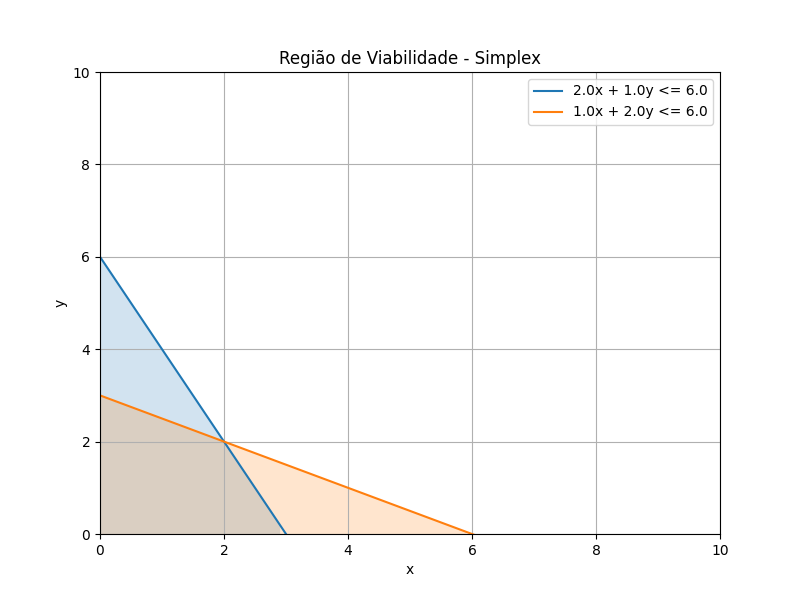
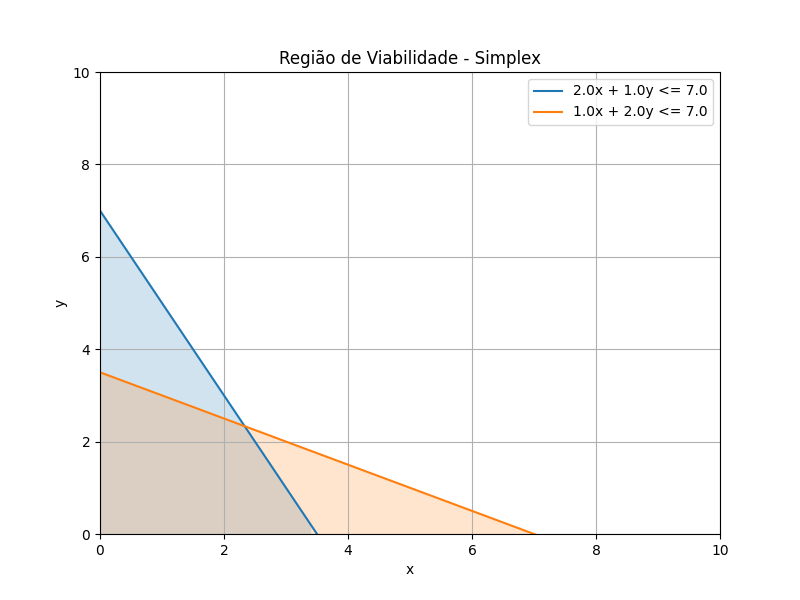
começando view da solução gráfica

Changed region(s): [[0.125, 0.36, 0.6562, 0.9], [0.8438, 0.15, 0.875, 0.21]]

diff --git a/resources/views/simplex/geometrica.blade.php b/resources/views/simplex/geometrica.blade.php
@@ -1,0 +1,112 @@
+<!DOCTYPE html>
+<html lang="pt-BR">
+
+<head>
+    <meta charset="UTF-8" />
+    <meta name="viewport" content="width=device-width, initial-scale=1" />
+    <title>Táuba</title>
+    <script src="https://kit.fontawesome.com/cc9f72a45c.js" crossorigin="anonymous"></script>
+    @vite(['resources/css/app.css', 'resources/js/app.js'])
+    <link href="https://fonts.googleapis.com/css2?family=Inter:wght@400;600;900&display=swap" rel="stylesheet" />
+    <link rel="stylesheet" href="https://cdnjs.cloudflare.com/ajax/libs/toastr.js/latest/toastr.min.css">
+    <style>
+        body {
+            font-family: 'Inter', sans-serif;
+        }
+
+        .cell-red {
+            background-color: #fee2e2;
+            color: #b91c1c;
+            font-weight: 600;
+        }
+
+        .cell-green {
+            background-color: #dcfce7;
+            color: #15803d;
+            font-weight: 600;
+        }
+
+        .cell-pivot {
+            background-color: #fef9c3;
+            border: 2px solid #facc15;
+        }
+    </style>
+</head>
+
+<body class="bg-gradient-to-br from-[#C69C6D] via-[#ffe4c6] to-[#B88960] min-h-screen py-12 px-6">
+    <!-- Botão Voltar -->
+
+
+    <div class="absolute top-6 left-6 flex flex-col gap-2">
+        <a href="{{ route('simplex.index') }}" class="duration-300 hover:scale-110">
+            <i class="fa-solid fa-house bg-[linear-gradient(224.36deg,_#995026_27.29%,_#5C3A21_62.58%)] bg-clip-text text-transparent text-2xl"></i>
+        </a>
+        <a href="{{ route('simplex.montar') }}" class="duration-300 hover:scale-110">
+            <i class="fa-solid fa-circle-left bg-[linear-gradient(224.36deg,_#995026_27.29%,_#5C3A21_62.58%)] bg-clip-text text-transparent text-2xl"></i>
+        </a>
+    </div>
+
+    <div class="mx-auto space-y-16 max-w-7xl">
+
+        {{-- Cabeçalho --}}
+        <header class="text-center">
+            <h1 class="mb-2 text-5xl font-extrabold tracking-tight text-[#5C3A21]">Resultado da Solução Geométrica</h1>
+            <p class="mb-12 text-lg text-amber-950 sm:text-xl">Abaixo está o gráfico</p>
+        </header>
+
+        {{-- Imagem do Gráfico --}}
+        <div class="flex justify-center overflow-hidden bg-white border border-orange-100 shadow-lg rounded-2xl">
+            <img src="{{asset('graficos/' . $nome)}}" alt="Grafico do Problema">
+        </div>
+
+        {{-- Resultado Final --}}
+        <div
+            class="max-w-2xl p-8 mx-auto mt-16 text-center bg-amber-50 border-l-8 border-amber-800 shadow-xl rounded-2xl">
+            <div class="flex items-center justify-center gap-3 mb-4 text-4xl font-extrabold text-amber-800">
+                Solução ótima encontrada
+            </div>
+            <p class="mt-2 text-3xl font-bold text-amber-900">
+                Z = <span class="text-amber-800"></span>
+            </p>
+            <p class="mt-4 text-xl text-amber-900">
+                <span class="font-semibold text-amber-800"></span>&nbsp;&nbsp;
+            </p>
+        </div>
+
+        {{-- Botão para salvar um problema no filesystem. --}}
+        <div class="flex justify-center">
+            <a onclick="toastr.success('Sucesso: problema baixado!')" href="{{ route('simplex.download') }}"
+                class="px-6 py-3 text-lg font-semibold text-[#5C3A21] bg-white/30 border border-white/60 rounded-full shadow backdrop-blur hover:bg-white/40 transition-all duration-300">
+                📂 <span>Salvar problema</span>
+            </a>
+        </div>
+
+
+    <script src="https://code.jquery.com/jquery-3.6.0.min.js"></script>
+    <script src="https://cdnjs.cloudflare.com/ajax/libs/toastr.js/latest/toastr.min.js"></script>
+    @if(isset($success))
+        <script>
+            toastr.success("{{ $success }}");
+        </script>
+    @endif
+
+    @if(isset($error))
+        <script>
+            toastr.error("{{ $error }}");
+        </script>
+    @endif
+
+    @if(isset($info))
+        <script>
+            toastr.info("{{ $info }}");
+        </script>
+    @endif
+
+    @if(isset($warning))
+        <script>
+            toastr.warning("{{ $warning }}");
+        </script>
+    @endif
+</body>
+
+</html>

diff --git a/app/Http/Controllers/SimplexController.php b/app/Http/Controllers/SimplexController.php
@@ -7,6 +7,7 @@ use App\Services\SolverSimplexMaxService;
 use App\Services\ZFormalizadaService;
 use App\Services\EstruturaGraficoService;
 use App\Services\GerarGraficoService;
+use App\Services\PutOnSessionService;
 use Illuminate\Http\Request;
 
 class SimplexController extends Controller
@@ -30,10 +31,7 @@ class SimplexController extends Controller
         if ($request["metodo"] == "algebrica") {
             try {
                 // Coloca o request atual na session.
-                $request->session()->put('tipo', $request->input('tipo'));
-                $request->session()->put('variaveis', $request->input('variaveis'));
-                $request->session()->put('restricoes', $request->input('restricoes'));
-                $request->session()->put('z', $request->input('z'));
+                (new PutOnSessionService())->putOnSession($request);
 
                 // Recebe a forma aumentada do problema no request.
                 $formaAumentada = (new FormaAumentadaService())->formaAumentada($request);
@@ -59,6 +57,9 @@ class SimplexController extends Controller
                 return view('simplex.montar', compact('tipo', 'variaveis', 'restricoesDados', 'restricoes', 'z') + ['error' => 'Erro: solução geométrica deve conter no máximo duas variáveis.']);
             }
 
+            // Coloca o request atual na session.
+            (new PutOnSessionService())->putOnSession($request);
+
             // Captura as restrições e joga na Service.
             $restricoesData = $request['restricoes'];
 
@@ -66,10 +67,13 @@ class SimplexController extends Controller
             $estruturaGrafico = (new EstruturaGraficoService())->estruturaGrafico($restricoesData);
 
             // Service integrada com python que gera solução gráfica.
-            $caminho = (new GerarGraficoService())->gerarGrafico($estruturaGrafico);
+            $fileName = (new GerarGraficoService())->gerarGrafico($estruturaGrafico);
 
-            // Retorna caminho para view que mostra a imagem.
-            dd($caminho["caminho"]);
+            // Pega nome do arquivo (str).
+            $nome = $fileName["nome"];
+
+            // Retorna nome do arquivo para view que mostra a imagem.
+            return view('simplex.geometrica', compact('nome'));
         }
         
         return view('simplex.montar', compact('tipo', 'variaveis', 'restricoesDados', 'restricoes', 'z') + ['error' => 'Erro: método de solução indefinido.']);

diff --git a/app/Services/PutOnSessionService.php b/app/Services/PutOnSessionService.php
@@ -1,0 +1,16 @@
+<?php
+
+namespace App\Services;
+
+
+
+class PutOnSessionService
+{
+    public function putOnSession($request): void
+    {
+        $request->session()->put('tipo', $request->input('tipo'));
+        $request->session()->put('variaveis', $request->input('variaveis'));
+        $request->session()->put('restricoes', $request->input('restricoes'));
+        $request->session()->put('z', $request->input('z'));
+    }
+}

diff --git a/app/Http/Controllers/DownloadController.php b/app/Http/Controllers/DownloadController.php
@@ -11,8 +11,6 @@ class DownloadController extends Controller
 {
     public function download(Request $request)
     {
-        // dd($request->session()->all());
-
         // Recupera os dados da session.
         $tipo = $request->session()->get('tipo');
         $variaveis = $request->session()->get('variaveis');

diff --git a/scripts/gerar_grafico.py b/scripts/gerar_grafico.py
@@ -57,5 +57,8 @@ plt.legend()
 caminho_saida = '../public/graficos/solucao.png'
 plt.savefig(caminho_saida)
 
+# Nome do arquivo.
+file_name = 'solucao.png'
+
 # Retorno pro Laravel.
-print(json.dumps({"caminho": caminho_saida}))
+print(json.dumps({"nome": file_name}))
